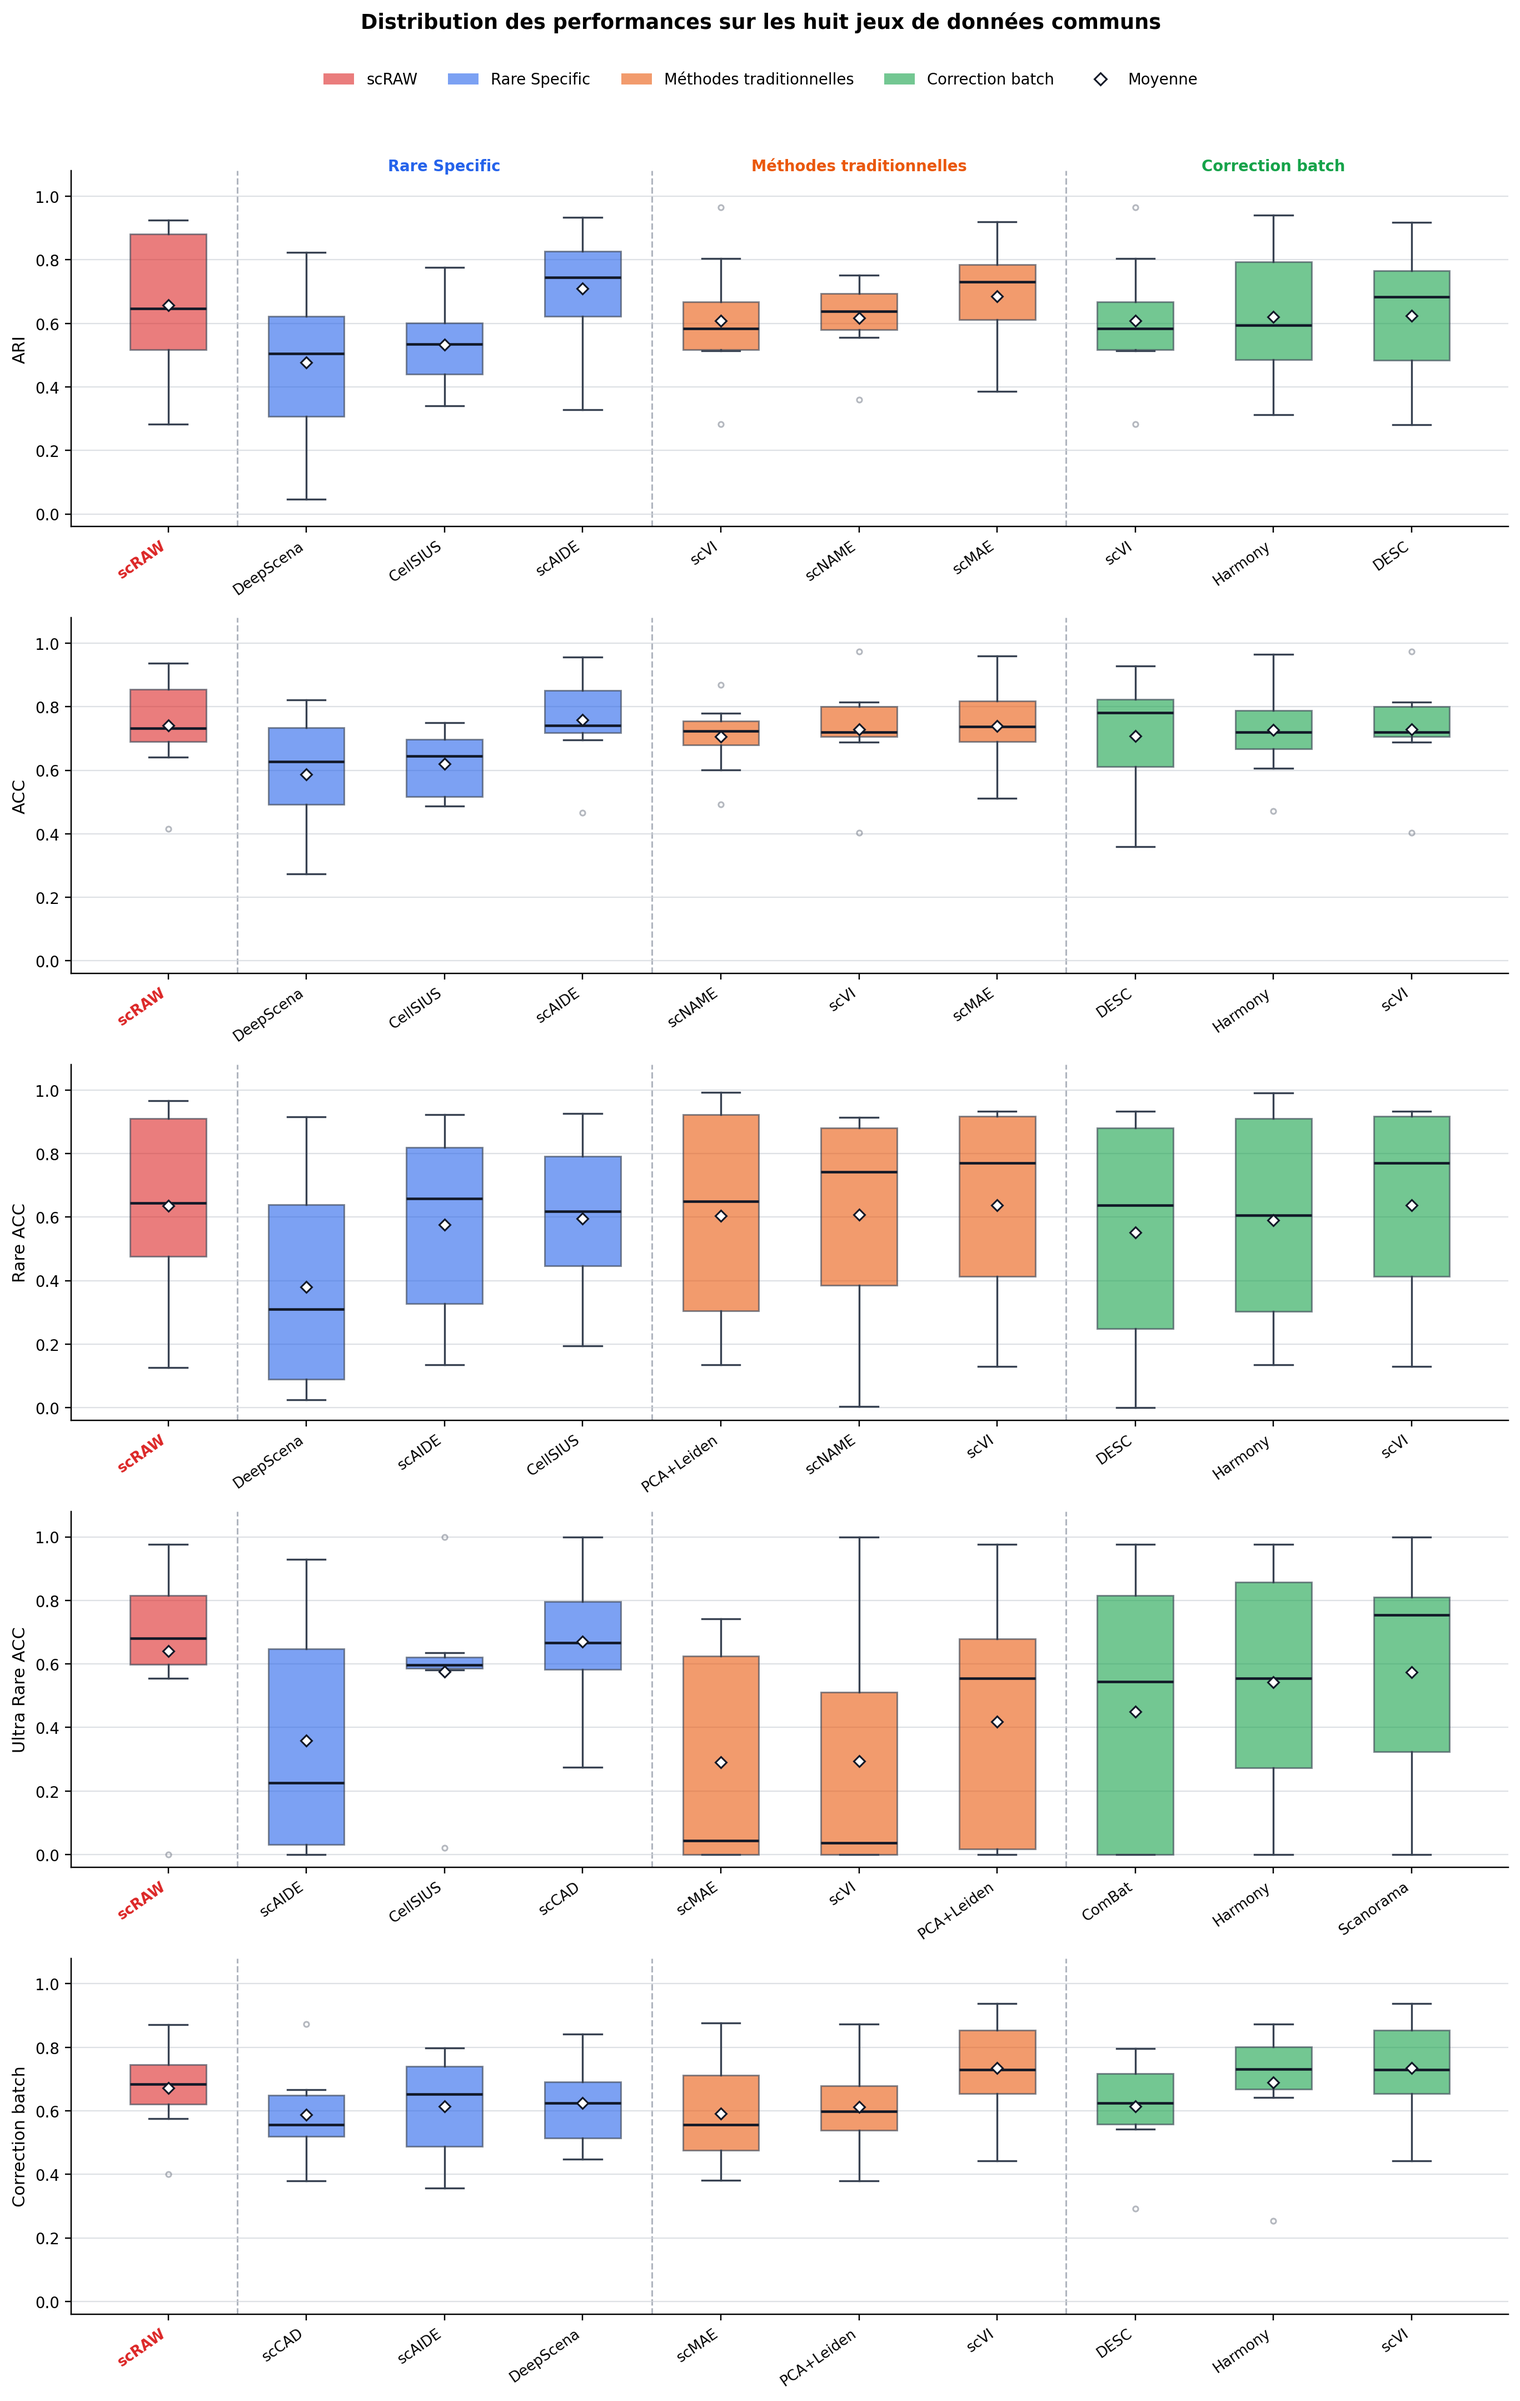
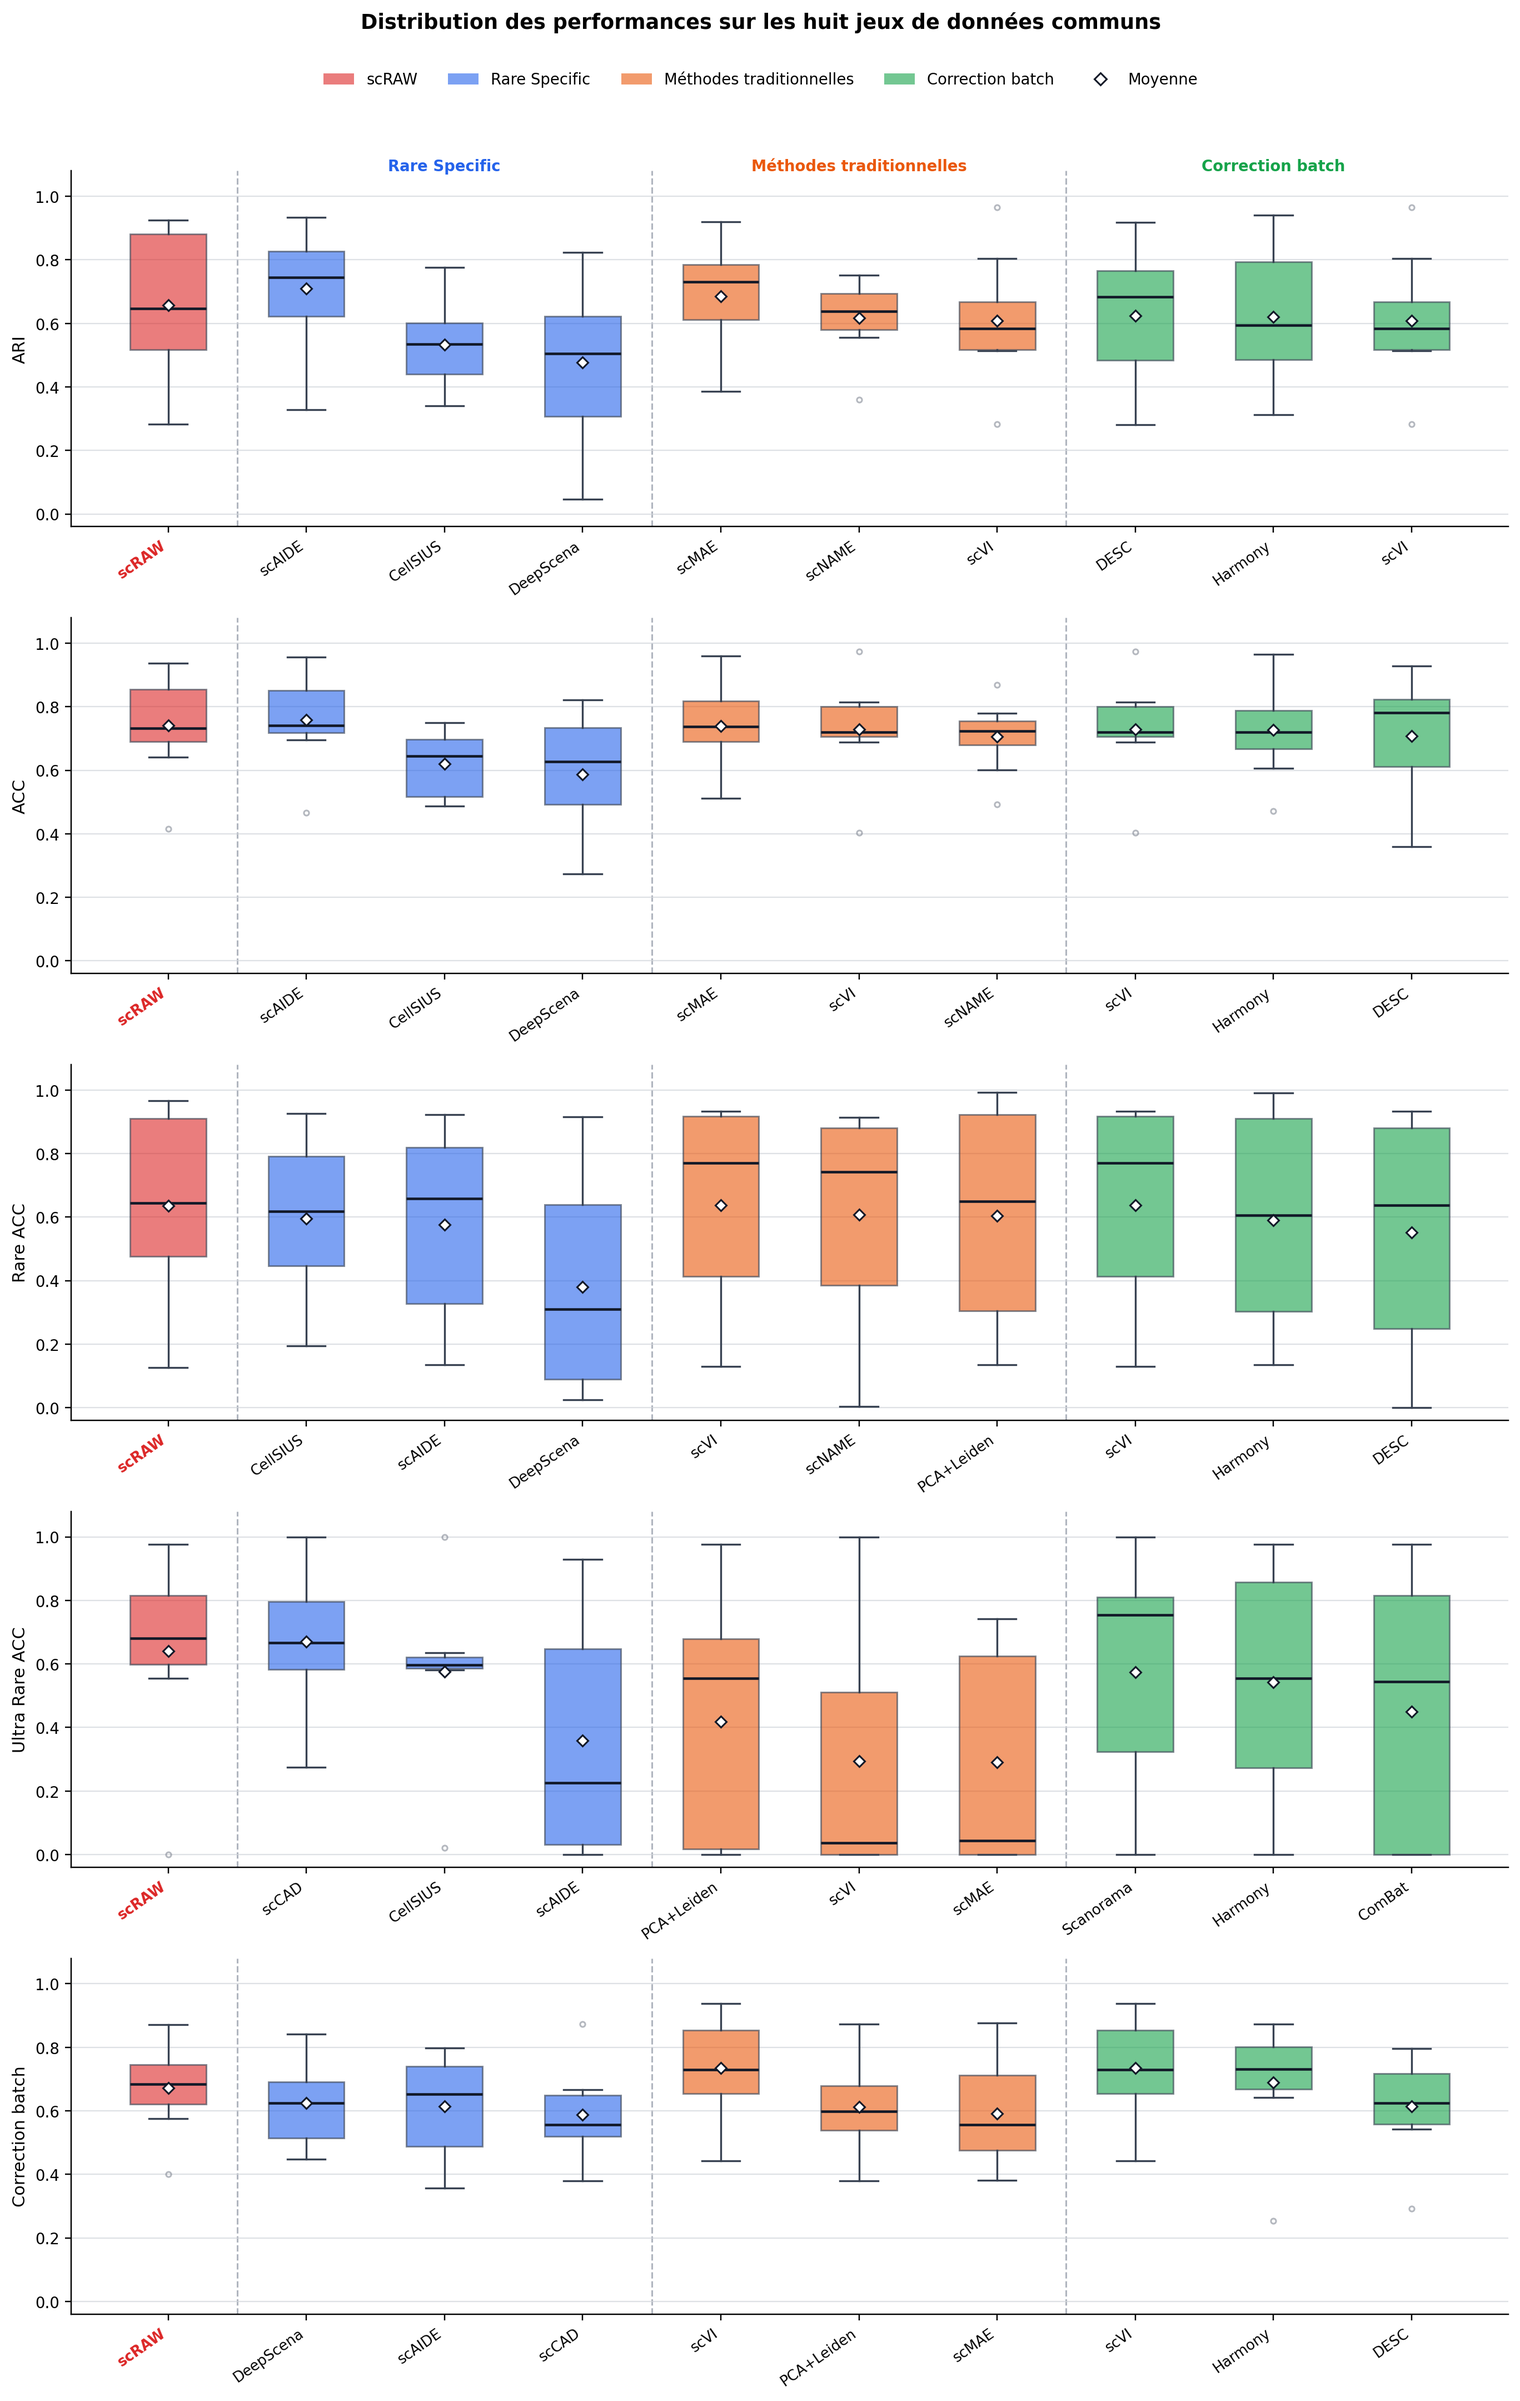
Figure 4 : tri descendant par famille (meilleur algo à gauche)

diff --git a/Images/scraw_common8_family_panel/replot_figure_4.py b/Images/scraw_common8_family_panel/replot_figure_4.py
@@ -123,7 +123,7 @@ def load_data() -> pd.DataFrame:
 
 
 def top3_per_family(df: pd.DataFrame, metric: str) -> dict[str, list[str]]:
-    """Return top-3 methods per family sorted ascending (worst→best left→right)."""
+    """Return top-3 methods per family sorted descending (best→worst, left→right)."""
     result: dict[str, list[str]] = {}
     for family, methods in PRIMARY_FAMILIES.items():
         sub = df[df["method"].isin(methods)]
@@ -131,13 +131,9 @@ def top3_per_family(df: pd.DataFrame, metric: str) -> dict[str, list[str]]:
             sub.groupby("method")[metric]
             .mean()
             .dropna()
-            .sort_values(ascending=True)  # worst on left, best on right
         )
-        # Keep only the 3 methods with the HIGHEST mean (but display worst→best)
-        # First pick the top-3 by mean, then re-sort ascending for display
-        top3_methods = means.sort_values(ascending=False).head(3).index.tolist()
-        # Re-sort the selected 3 ascending (worst→best)
-        top3_sorted = means.loc[means.index.isin(top3_methods)].sort_values(ascending=True).index.tolist()
+        # Pick the 3 best methods, then sort descending (best on left)
+        top3_sorted = means.sort_values(ascending=False).head(3).index.tolist()
         result[family] = top3_sorted
     return result
 
